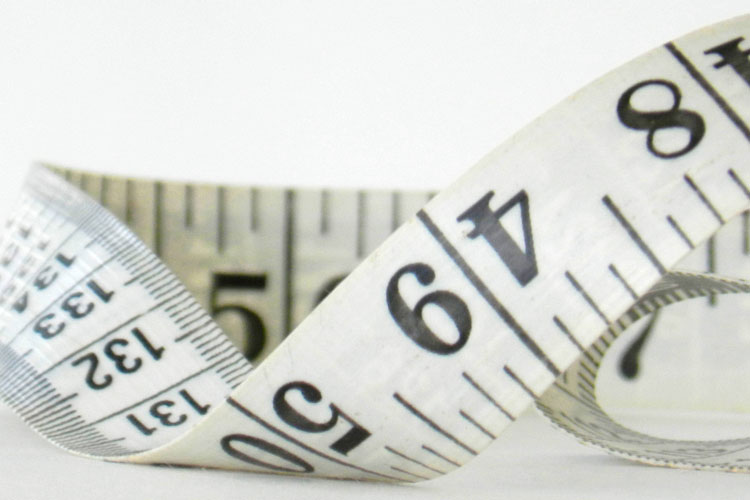
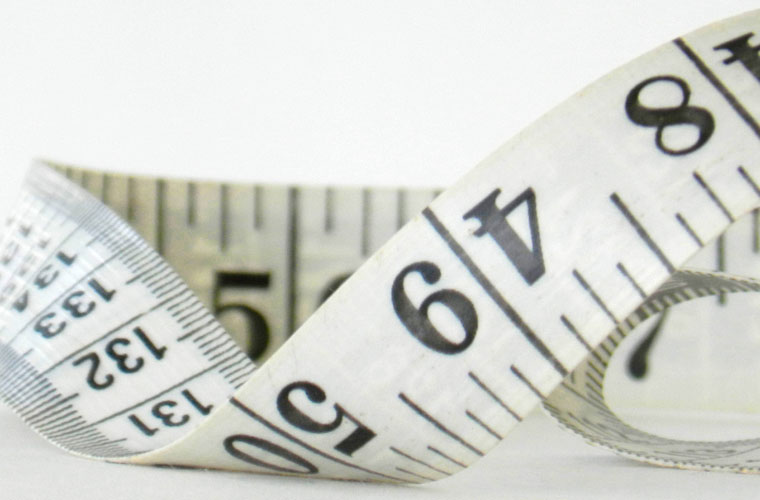
Change width of the carousel images and add greeting block to the home page

diff --git a/app/assets/stylesheets/static_pages.css.scss b/app/assets/stylesheets/static_pages.css.scss
@@ -1,3 +1,5 @@
+/* Carousel */
+
 // Place all the styles related to the StaticPages controller here.
 // They will automatically be included in application.css.
 // You can use Sass (SCSS) here: http://sass-lang.com/
@@ -31,10 +33,18 @@
   float: left;
 }
 
-.jcarousel-prev {
-  margin-left: 15px;
+.carousel-row {
+  background-color: #84ccc1;
 }
 
-.jcarousel-next {
-  margin-right: 15px;
+/* Greeting */
+
+.greeting-container {
+  text-align: center;
+  padding-bottom: 20px;
+}
+
+.greeting {
+  color: #ffffff;
+  font-family: Open Sans, sans-serif;
 }

diff --git a/app/assets/stylesheets/application.css.scss b/app/assets/stylesheets/application.css.scss
@@ -21,6 +21,14 @@ body {
   background: image_url('symphony.png');
 }
 
+.tiled-row {
+  margin: 0;
+}
+
+.tiled-column {
+  padding: 0;
+}
+
 /* Header */
 
 .header {
